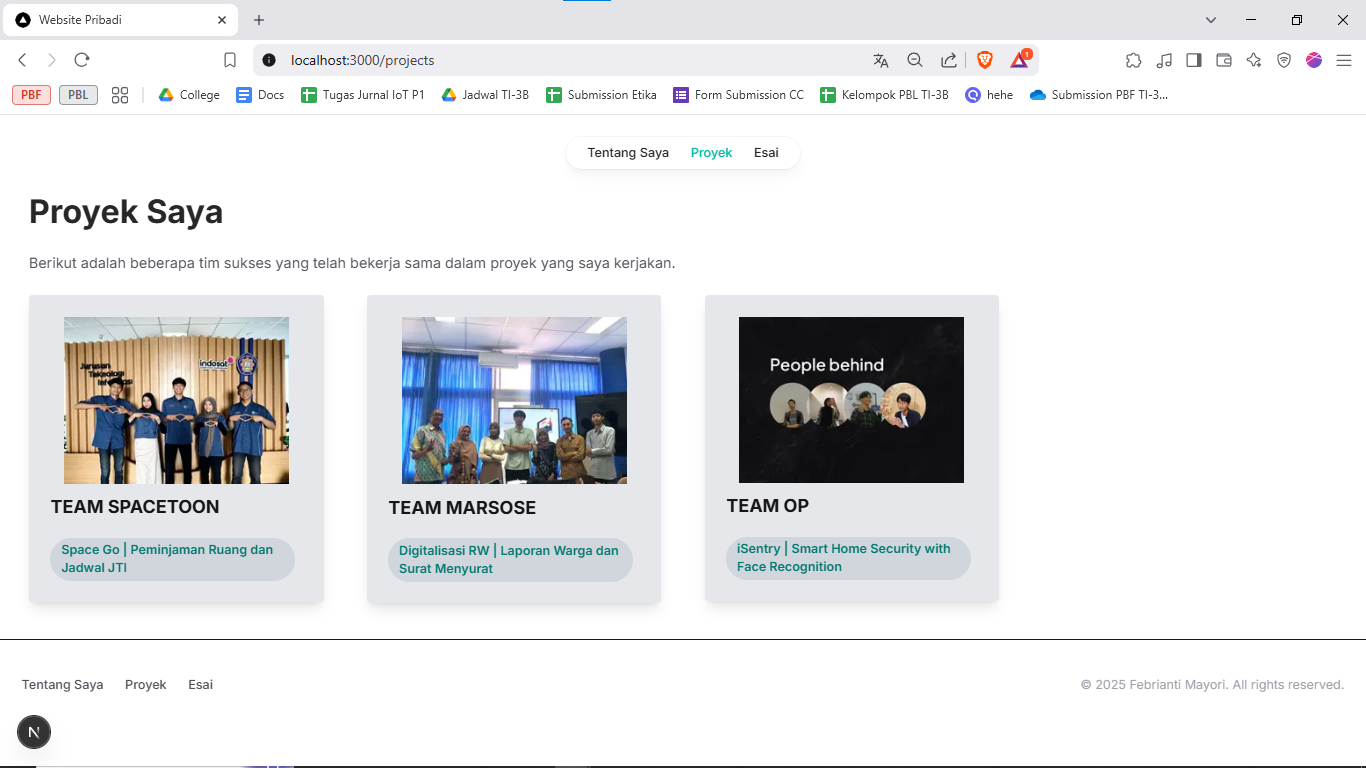
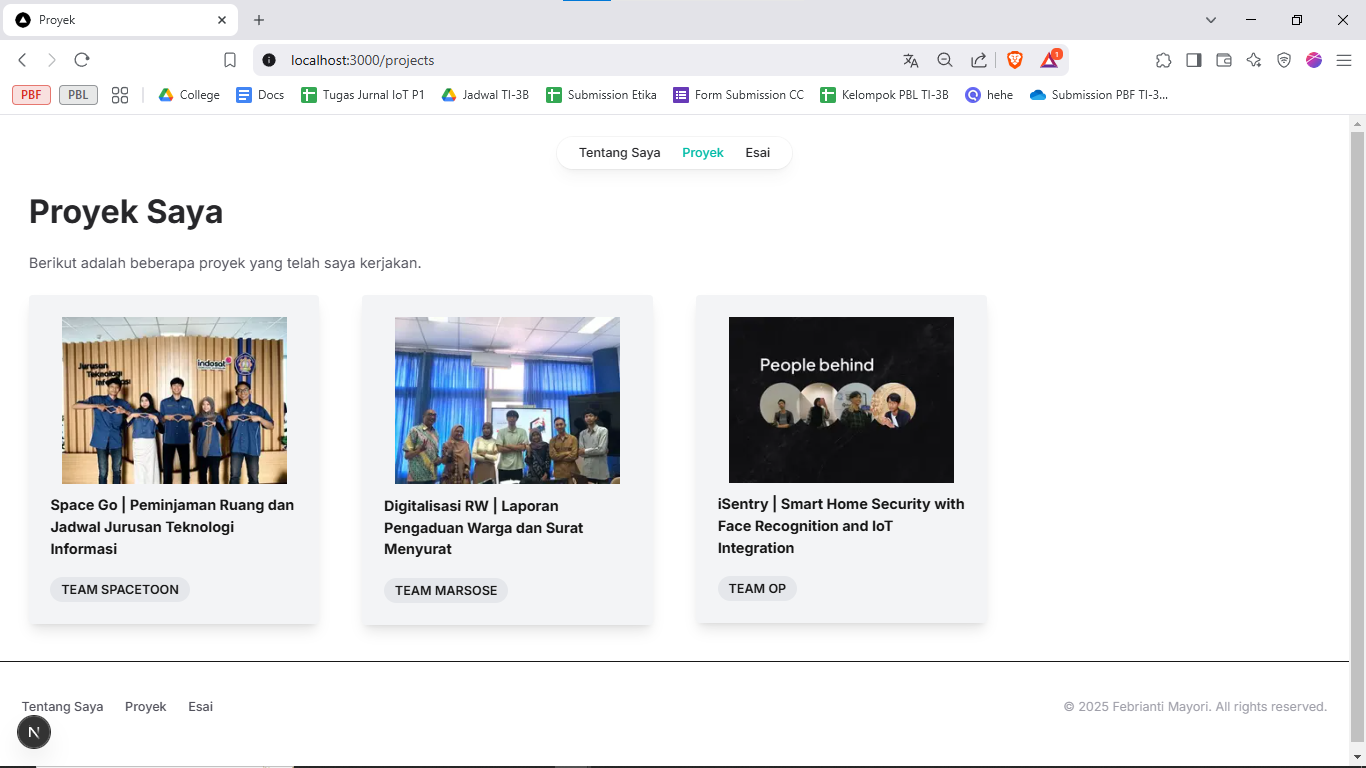
#05 | Perbaikan Praktikum 4

diff --git a/05-tailwind-css/website-pribadi/src/app/projects/page.tsx b/05-tailwind-css/website-pribadi/src/app/projects/page.tsx
@@ -1,3 +1,4 @@
+import type { Metadata } from 'next';
 import Image, { StaticImageData } from 'next/image';
 import Image1 from '../../../public/images/project1.jpg';
 import Image2 from '../../../public/images/project2.jpg';
@@ -14,15 +15,15 @@ type ProjectItemProps = {
     return (
       <li>
         <a href={url}>
-          <div className="bg-gray-200 max-w-sm rounded overflow-hidden shadow-lg">
+          <div className="bg-gray-100 max-w-sm rounded overflow-hidden shadow-lg">
             <div className="w-full flex justify-center mt-6">
               <Image src={imageSrc} alt={name} width={250} height={250} className="object-contain" />
             </div>
             <div className="px-6 py-3">
-              <div className="font-bold text-xl mb-2">{name}</div>
+              <div className="font-bold text-l mb-2">{name}</div>
             </div>
             <div className="px-6 pb-4">
-              <span className="inline-block bg-gray-300 rounded-full px-3 py-1 text-sm font-semibold text-teal-700 mr-2 mb-2">
+              <span className="inline-block bg-gray-200 rounded-full px-3 py-1 text-sm font-semibold text-grey-300 mr-2 mb-2">
                 {urlDisplay}
               </span>
             </div>
@@ -31,6 +32,15 @@ type ProjectItemProps = {
       </li>
     );
   }
+
+  export const metadata: Metadata = {
+    title: "Proyek",
+    description: "Halaman proyek",
+    openGraph: {
+      title: "Proyek",
+      description: "Halaman proyek",
+    },
+  };
   
   export default function Projects() {
     return (
@@ -38,28 +48,28 @@ type ProjectItemProps = {
         <header>
           <h1 className="font-bold text-4xl text-zinc-800">Proyek Saya</h1>
           <p className="text-base mt-6 text-zinc-600">
-          Berikut adalah beberapa tim sukses yang telah bekerja sama dalam proyek yang saya kerjakan.
+          Berikut adalah beberapa proyek yang telah saya kerjakan.
           </p>
         </header>
         <div className="mt-6">
           {/* <h2 className="text-2xl">Aplikasi</h2> */}
           <ul className="grid grid-cols-1 md:grid-cols-2 lg:grid-cols-4 gap-x-12 gap-y-16 mt-6">
             <ProjectItem 
-              name="TEAM SPACETOON" 
+              name="Space Go | Peminjaman Ruang dan Jadwal Jurusan Teknologi Informasi" 
               url="https://example.com" 
-              urlDisplay="Space Go | Peminjaman Ruang dan Jadwal JTI" 
+              urlDisplay="TEAM SPACETOON" 
               imageSrc={Image1} 
             />
             <ProjectItem 
-              name="TEAM MARSOSE" 
+              name="Digitalisasi RW | Laporan Pengaduan Warga dan Surat Menyurat" 
               url="https://example.com" 
-              urlDisplay="Digitalisasi RW | Laporan Warga dan Surat Menyurat" 
+              urlDisplay="TEAM MARSOSE" 
               imageSrc={Image2} 
             />
             <ProjectItem 
-              name="TEAM OP" 
+              name="iSentry | Smart Home Security with Face Recognition and IoT Integration" 
               url="https://example.com" 
-              urlDisplay="iSentry | Smart Home Security with Face Recognition" 
+              urlDisplay="TEAM OP" 
               imageSrc={Image3}
             />
           </ul>
